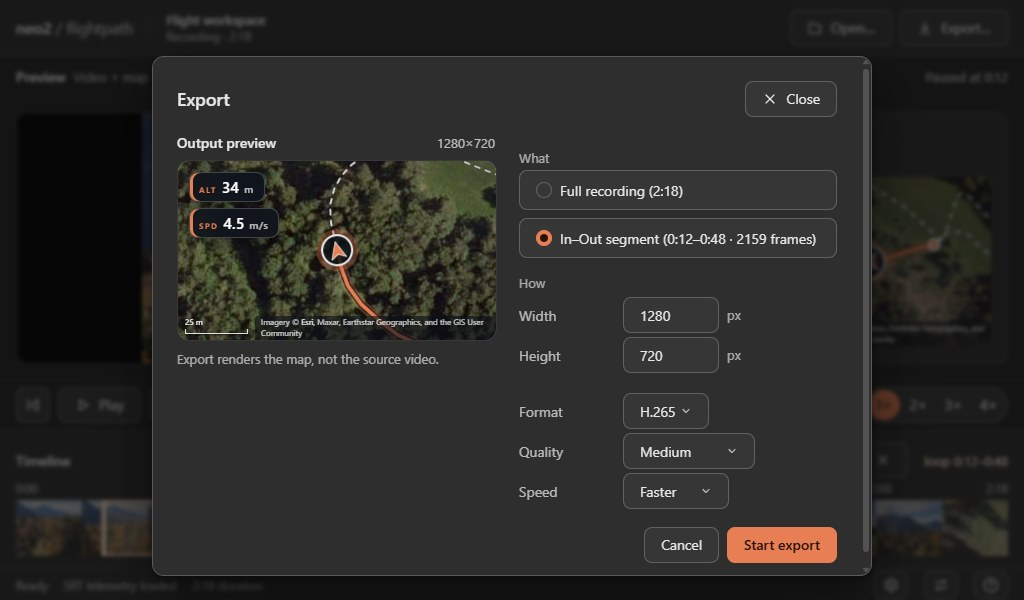
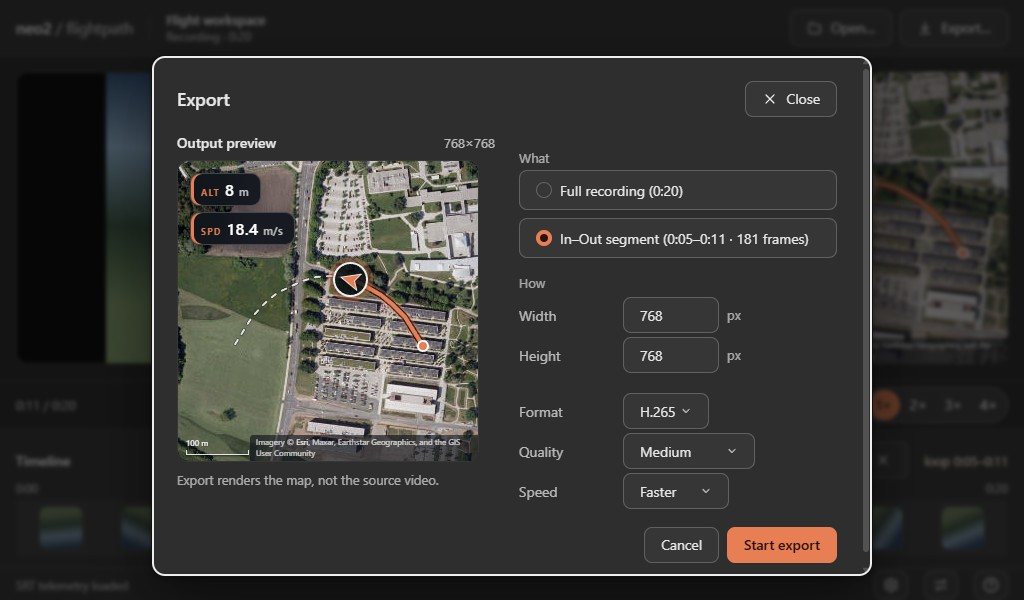
docs: refresh the user manual for the desktop UI overhaul (#153)
Describe the redesigned player workspace and export experience: the footer Map settings / Swap / Help cluster, the timeline's loop controls, and the export dialog's map-output preview with the map-only rule. Refresh all app screenshots from the current build at 1440x900 typical and 1024x600 compact sizes, add the empty workspace shot, and drop the orphaned landing and superseded export dialog images. Closes #153.

diff --git a/docs/user/desktop-app.md b/docs/user/desktop-app.md
@@ -8,9 +8,13 @@ Grab the packaged desktop app (Windows NSIS installer or portable exe, Linux App
 
 Launching the app lands in the review workspace with no recording loaded: the workspace rows are disabled, the map pane reads *No telemetry yet*, and the centered **Open…** button in the footage pane is the one action (**Open…** in the header and `Ctrl+O` do the same). Picking a drone video — the dialog starts in the folder the last recording was opened from — opens the player right after the recording is probed, its telemetry is loaded and the view is planned: no tile warm-up in between. The map draws the flight trail immediately and loads its tiles on demand, and playback is ready right away. Changing the map style, zoom or view in [Map appearance](#map-appearance) starts loading the tiles for the new view instead.
 
+![Empty workspace with the centered Open call to action](../images/app-empty-workspace.jpg)
+
+*The workspace before a recording loads: disabled rows, a centered **Open…** call to action in the footage pane, and an empty map pane.*
+
 ## Reviewing a flight
 
-The review workspace shows the footage and the synchronized flight map at once: the video fills the preview beside a map card that names its look ("Satellite · Overview"), keeps its flight trail, drone position and HUD chips on the frame, and shares the playhead with the video. **Swap view** (or `S`) turns the map into a corner overlay on the footage when you want the full frame for the video. Play, pause and scrubbing drive both panes from one timeline, so the map and the footage never drift apart. Every playback control has a [keyboard shortcut](keyboard-shortcuts.md).
+The review workspace shows the footage and the synchronized flight map at once: the video fills the preview beside the map pane, which keeps the flight trail, drone position and HUD chips and shares the playhead with the video. **Swap** in the footer (or `S`) turns the map into a corner overlay on the footage when you want the full frame for the video. Play, pause and scrubbing drive both panes from one timeline, so the map and the footage never drift apart. Every playback control has a [keyboard shortcut](keyboard-shortcuts.md).
 
 ![Footage and synchronized flight map side by side in the review workspace](../images/app-review-split.jpg)
 
@@ -20,9 +24,15 @@ The review workspace shows the footage and the synchronized flight map at once: 
 
 *Swapped view: the flight map overlays the footage while both stay on the same frame.*
 
+At the compact 1024×600 minimum window size the same workspace fits into less space, with every control still in reach.
+
+![Review workspace at the compact 1024x600 window size](../images/app-review-compact.jpg)
+
+*The review workspace at the compact 1024×600 window size.*
+
 ## Looping a passage
 
-The timeline under the preview shows the video as a filmstrip with the loop band over it. Press `I` to mark the loop in point and `O` the out point — or drag the band's ends with the mouse — and the passage between them plays on repeat until you clear the loop with `Esc`.
+The timeline panel's quiet header carries the loop controls — icon-only buttons for **Set loop in (I)**, **Set loop out (O)** and **Clear loop (Esc)** — and a readout of the marked passage. Below it the timeline shows the video as a filmstrip with the loop band over it. Press `I` to mark the loop in point and `O` the out point — or drag the band's ends with the mouse — and the passage between them plays on repeat until you clear the loop with `Esc`.
 
 ![Timeline with loop in and out points marked](../images/app-loop-points.jpg)
 
@@ -30,15 +40,29 @@ The timeline under the preview shows the video as a filmstrip with the loop band
 
 ## Export
 
-The **Export…** button in the header renders the recording with the look you see in the preview. Choose *Full recording* or the *In–Out segment* (set the loop points with `I` / `O` first; once a loop is set the segment comes preselected), set the output size and the encoding — format (H.264 or H.265), quality (*Near-lossless* down to *Low*) and speed — press **Start export**, and pick the destination file. The app remembers the encoding choices between launches like the look settings, and the output size while the recording is open.
+The **Export…** button in the header is the export entry point (it stays disabled until a recording is loaded). The dialog opens with an **Output preview** beside the form: the preview shows the exact map output — the very scene the export captures, planned at the output size — and states the rule under the frame: *Export renders the map, not the source video.* In the form, *What* picks *Full recording* or the *In–Out segment* (set the loop points with `I` / `O` first; once a loop is set the segment comes preselected) and *How* sets the output size and the encoding — format (H.264 or H.265), quality (*Near-lossless* down to *Low*) and speed (*Balanced* or *Faster*). Press **Start export**, pick the destination file, and follow the progress beside the preview until the done state names the output. The app remembers the encoding choices between launches like the look settings, and the output size while the recording is open.
 
-![The export dialog with segment choice, output size and encoding](../images/app-export-dialog.jpg)
+![The export dialog with the output preview beside the What and How form](../images/app-export-form.jpg)
 
-*The Export dialog: render the full recording or just the In–Out segment, at the size and encoding you pick.*
+*The Export dialog: the output preview shows the exact map output beside the What and How form.*
+
+![Export running with progress beside the frozen output preview](../images/app-export-running.jpg)
+
+*An export running: the preview freezes on the request while progress reports beside it.*
+
+![Export done naming the rendered output](../images/app-export-done.jpg)
+
+*Export done: the phase column names the rendered output.*
+
+At the compact 1024×600 minimum window size the preview shrinks and the form stays in reach.
+
+![Export dialog at the compact 1024x600 window size](../images/app-export-compact.jpg)
+
+*The Export dialog at the compact 1024×600 window size.*
 
 ## Map appearance
 
-The **Map appearance** button in the header opens a small panel with the map look settings: map style (satellite or topographic), view mode (follow keeps the drone centered with the map sliding under it; overview shows the whole track at once), zoom and zoom-out levels, the intro and outro zoom transitions, and the HUD chips (heading, altitude and speed — altitude and speed are off by default). Every change applies at once to the preview and the next export. The app remembers these settings between launches: the next launch starts with the last-used look, and a fresh install — or settings the app cannot read — starts at the defaults.
+The **Map settings** button in the footer opens the *Map appearance* popover with the map look settings: map style (satellite or topographic), view (*Overview* shows the whole track at once, *Follow* keeps the drone centered with the map sliding under it), zoom and zoom-out levels, the intro and outro zoom transitions, and the HUD chips (heading arrow, altitude (ALT) and speed (SPD) — altitude and speed are off by default, and altitude is unavailable when the telemetry has none). The panel repeats the rule under the settings: *Export renders the map, not the source video.* Every change applies at once to the preview and the next export. The app remembers these settings between launches: the next launch starts with the last-used look, and a fresh install — or settings the app cannot read — starts at the defaults.
 
 ![The map appearance panel with map style, view, zoom and HUD chips](../images/app-review-map-appearance.jpg)
 

diff --git a/docs/user/keyboard-shortcuts.md b/docs/user/keyboard-shortcuts.md
@@ -12,11 +12,13 @@ The review player in the desktop app is fully keyboard-operable.
 | `I` / `O` | Set the loop in / out point |
 | `Esc` | Clear the loop, or close an open dialog or popover |
 | `S` | Swap the video and map layout |
-| `Ctrl+O` | Open another recording |
+| `Ctrl+O` | Open a recording — works in the empty workspace and while typing |
 
 ## How shortcuts behave
 
-- Shortcuts are inert while a text field, select or other editable control has focus; `Ctrl+O` is the exception and also works while typing.
-- `Space` leaves activation to a focused button or link instead of toggling playback.
+- Before a recording is loaded the playback shortcuts do nothing; `Ctrl+O` still opens one.
+- Shortcuts are inert while a text field, select or other editable control has focus — but stay live over non-text controls like the timeline scrubber; `Ctrl+O` is the exception and also works while typing.
+- `Space` leaves activation to a focused button, link or disclosure instead of toggling playback.
 - While a dialog is open, only `Esc` works; it closes the dialog. The Map appearance popover is not a dialog — shortcuts stay live while it is open, and `Esc` closes it.
+- The first `Esc` over a focused select closes its dropdown; the next one closes the dialog, popover or loop like from anywhere else.
 - Held keys auto-repeat only for stepping and jumping; every other shortcut acts once per press.
